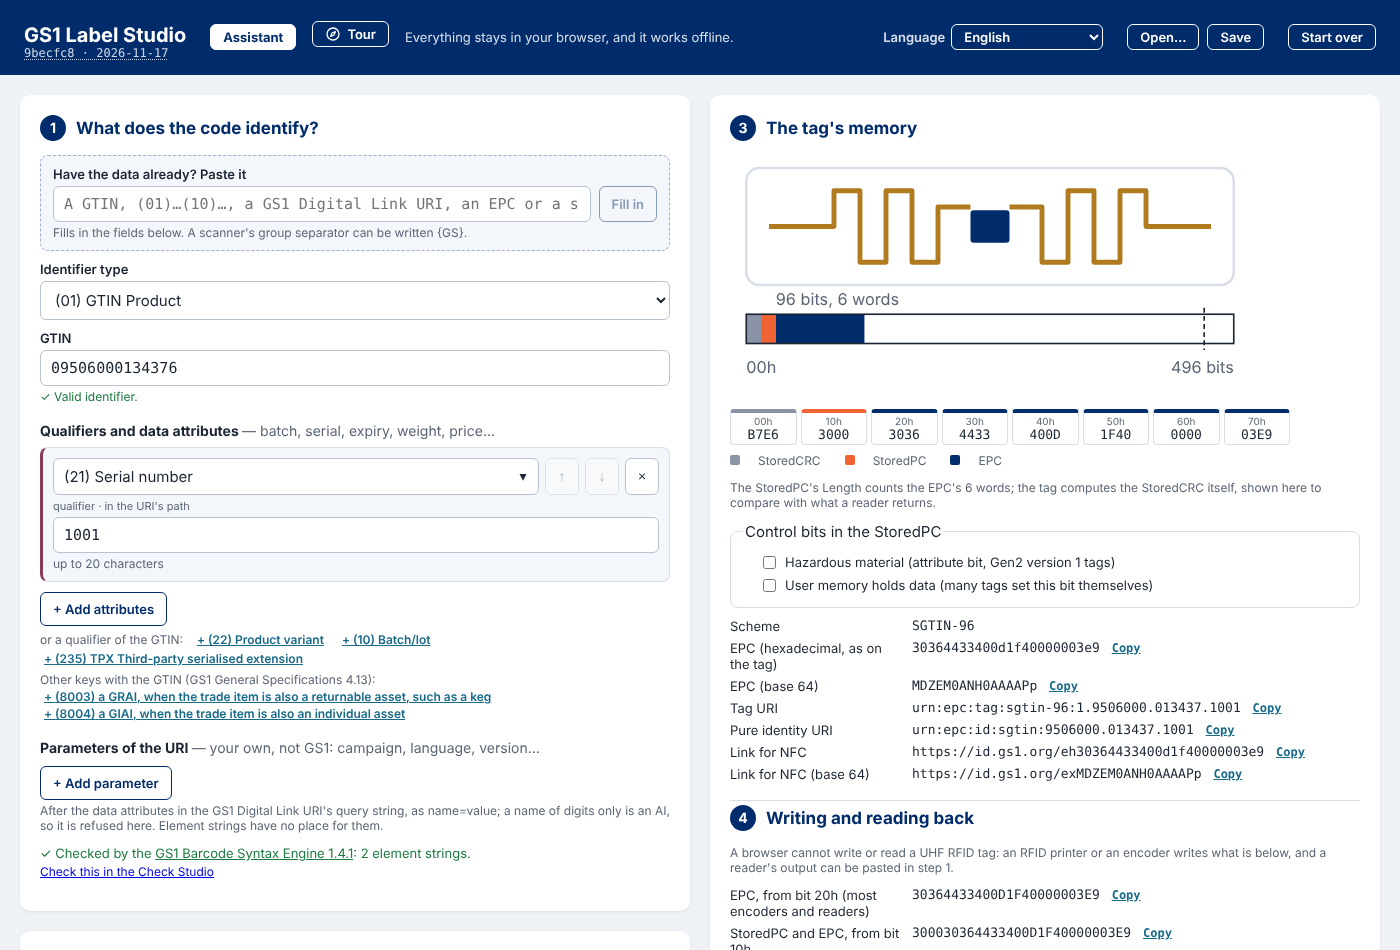
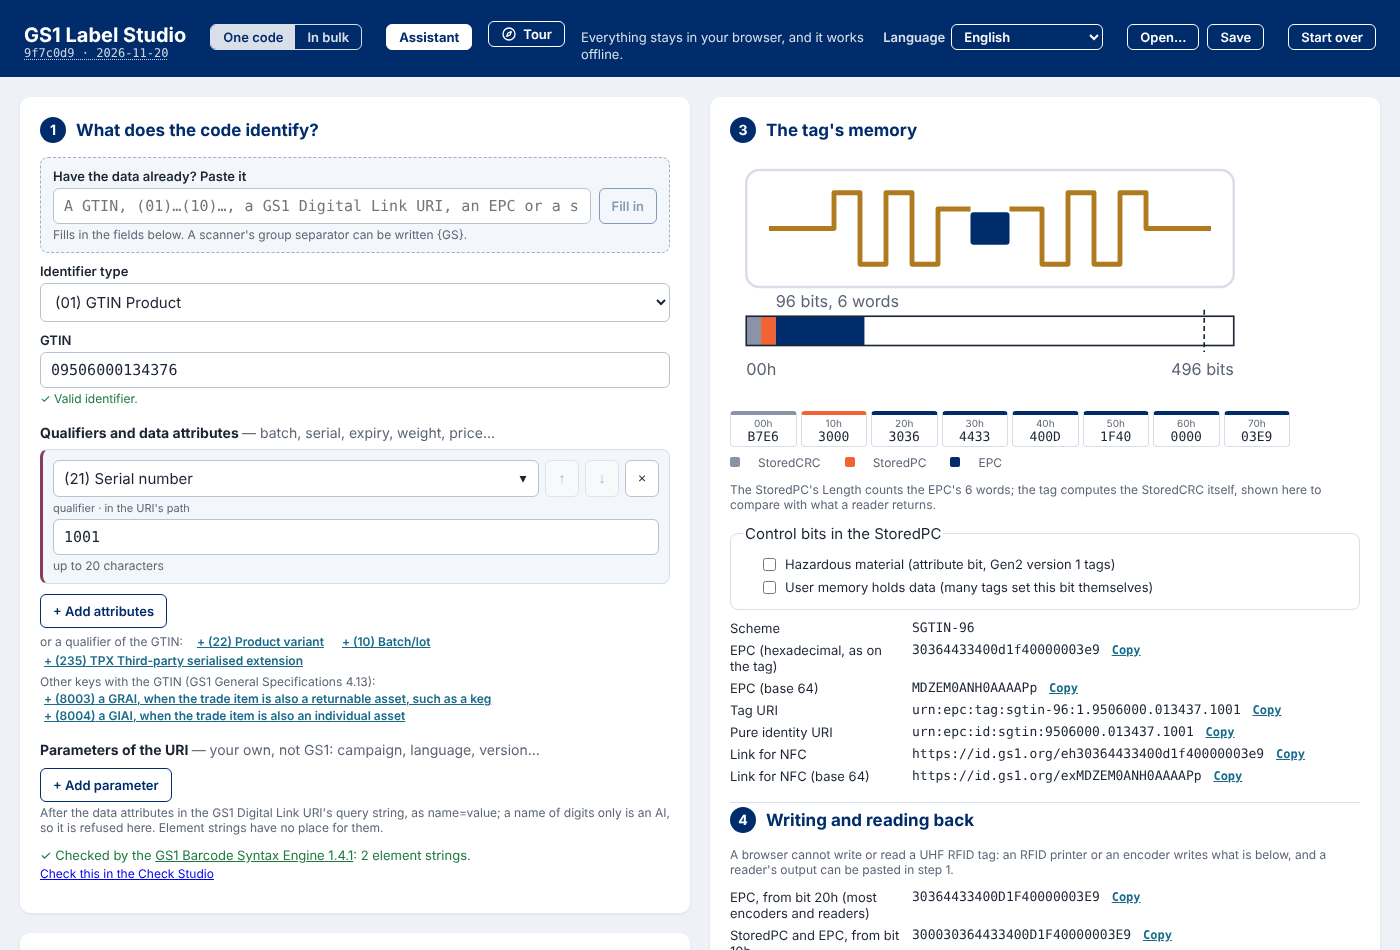
docs: many tags at once in ADR 0008, the guides, features and the backlog (6.12 d)
ADR 0008 records decision 6 (mock-up A of two, B set aside); the user guide
and the printing guide describe Many tags and its three files; the start
page's text no longer calls the RFID Studio coming soon; a screenshot of the
panel; the inventory after the new tests.

Claude-Session: https://claude.ai/code/session_01AV1oss5tP6KcvMZ3QYyCJ9

diff --git a/apps/web/screenshots/guide.spec.ts b/apps/web/screenshots/guide.spec.ts
@@ -318,6 +318,16 @@ test("the RFID Studio: the tag's memory and the RFID printer", async ({ page }) 
   await shot(page.locator(".rfid-write"), "rfid-write");
 });
 
+test("the RFID Studio in bulk: many tags at once", async ({ page }) => {
+  await page.goto("/#/rfid");
+  await page.getByRole("button", { name: "In bulk" }).click();
+  await page.fill("#rows-paste", "GTIN\tSerial\n" + Array.from({ length: 12 }, (_, i) => `09506000134376\t${1000 + i}`).join("\n") + "\n09506000134376\t\n");
+  await page.getByRole("button", { name: "Use the pasted rows" }).click();
+  await page.selectOption("#rfid-prefix", "7");
+  await expect(page.locator(".rfid-many tbody tr")).toHaveCount(4);
+  await shot(page.locator(".rfid-many"), "rfid-many");
+});
+
 test("in bulk", async ({ page }) => {
   await page.getByRole("button", { name: "In bulk" }).click();
   await shot(page.locator("section[aria-labelledby='rows-title']"), "bulk-start");

diff --git a/docs/test-inventory.md b/docs/test-inventory.md
@@ -1,6 +1,6 @@
 # Inventory of features from the tests
 
-Every test of the core's suite, of the web application's unit tests and of the editor's browser tests on 2026-11-20: 2,830 tests in 84 files. Each line is a test's name, a sentence that says what is true when it passes; together they say what the studio does and that it works. Each feature of [features.md](features.md) names the tests that prove it. Generated by `node scripts/inventory.mjs` from a complete run of the core's tests and the list of the browser tests ([ADR 0005](adr/0005-documentation-and-feature-inventory.md)); do not edit by hand.
+Every test of the core's suite, of the web application's unit tests and of the editor's browser tests on 2026-11-20: 2,834 tests in 84 files. Each line is a test's name, a sentence that says what is true when it passes; together they say what the studio does and that it works. Each feature of [features.md](features.md) names the tests that prove it. Generated by `node scripts/inventory.mjs` from a complete run of the core's tests and the list of the browser tests ([ADR 0005](adr/0005-documentation-and-feature-inventory.md)); do not edit by hand.
 
 Every unit test ran and passed in the run that wrote this file, the ZPL printed by Labelary included (`LABELARY=1`), but the documents' own test (`docs`), which checks this file and runs right after it is written. The browser tests are listed by Playwright and run by CI against the built application, on a desktop, a phone and a tablet held horizontally (a test about one layout is skipped in the others).
 
@@ -10,14 +10,14 @@ Every unit test ran and passed in the run that wrote this file, the ZPL printed 
 | [Where it is scanned: the assistant, the guided choice and the symbol specification tables](#where-it-is-scanned-the-assistant-the-guided-choice-and-the-symbol-specification-tables) | `assistant`, `environments`, `guide`, `specifications` | 223 |
 | [Symbols and the label's layout](#symbols-and-the-labels-layout) | `bars`, `design`, `designSymbol`, `gs1128`, `guides`, `hriFormat`, `hriplace`, `imagefile`, `labelsvg`, `layout`, `logistic`, `picture`, `place`, `pyformat`, `qrmode`, `resize`, `said`, `templates` | 234 |
 | [Exports and prepress: SVG, PNG, PDF, EPS, zip](#exports-and-prepress-svg-png-pdf-eps-zip) | `prepress`, `render`, `roundtrip` | 60 |
-| [In bulk: rows, the report, sequences, generation](#in-bulk-rows-the-report-sequences-generation) | `batch`, `bulk`, `report`, `sequence`, `table` | 167 |
+| [In bulk: rows, the report, sequences, generation](#in-bulk-rows-the-report-sequences-generation) | `batch`, `bulk`, `report`, `sequence`, `table` | 168 |
 | [Printers: the dot grid, profiles, ZPL, TSPL, EPL2, DPL, PPLA and PPLB](#printers-the-dot-grid-profiles-zpl-tspl-epl2-dpl-ppla-and-pplb) | `argox`, `dots`, `labelary`, `printer`, `printlangs`, `zpl` | 258 |
-| [RFID, NFC and digital signatures](#rfid-nfc-and-digital-signatures) | `epc`, `epcPlus`, `ndef`, `rfid`, `sign`, `tagMemory` | 1,307 |
+| [RFID, NFC and digital signatures](#rfid-nfc-and-digital-signatures) | `epc`, `epcPlus`, `ndef`, `rfid`, `sign`, `tagMemory` | 1,309 |
 | [The Check Studio: a code read to be checked](#the-check-studio-a-code-read-to-be-checked) | `camera`, `check`, `check-group`, `check-studio`, `checkReport`, `engine-map`, `estimate`, `estimates`, `faults`, `group`, `history`, `reading`, `readings`, `reports`, `share`, `sharing`, `wedge` | 274 |
 | [The work saved on one's own computer and opened again](#the-work-saved-on-ones-own-computer-and-opened-again) | `lastwork`, `opened`, `work` | 9 |
 | [The interface's languages: English, Brazilian Portuguese, Spanish, French, German, Italian](#the-interfaces-languages-english-brazilian-portuguese-spanish-french-german-italian) | `i18n` | 15 |
 | [The documents](#the-documents) | `docs` | 7 |
-| [The editor in the browser (Playwright, desktop, phone and tablet)](#the-editor-in-the-browser-playwright-desktop-phone-and-tablet) | `routes`, `tour`, `check-camera`, `check-estimate`, `check-history`, `check-matrix`, `check-report`, `check-result`, `check-scan`, `check-share`, `editor`, `layouts`, `rfid-studio`, `studios` | 187 |
+| [The editor in the browser (Playwright, desktop, phone and tablet)](#the-editor-in-the-browser-playwright-desktop-phone-and-tablet) | `routes`, `tour`, `check-camera`, `check-estimate`, `check-history`, `check-matrix`, `check-report`, `check-result`, `check-scan`, `check-share`, `editor`, `layouts`, `rfid-studio`, `studios` | 188 |
 
 ## Input and identification: the Syntax Engine, keys, qualifiers, attributes
 
@@ -790,7 +790,7 @@ Every unit test ran and passed in the run that wrote this file, the ZPL printed 
 
 ## In bulk: rows, the report, sequences, generation
 
-<details><summary><code>batch</code> — 17 tests (<code>packages/core/test/batch.test.ts</code>)</summary>
+<details><summary><code>batch</code> — 18 tests (<code>packages/core/test/batch.test.ts</code>)</summary>
 
 - label sheets › describes each sheet offered within its page, its labels centred
 - label sheets › refuses a custom sheet whose labels overlap or leave the page, or whose numbers are not sizes
@@ -801,6 +801,7 @@ Every unit test ran and passed in the run that wrote this file, the ZPL printed 
 - file names › replaces a column's header by the row's cell, its case and surrounding spaces aside, and knows the headers
 - file names › offers each name a pattern may take with the row's value, leaving out the headers it would read as another name, and adds one after a separator
 - generating every row › makes each row's files, numbers repeated names, leaves out errors and skipped rows, and lists them all
+- generating every row › writes each row's RFID tag with its label in ZPL, and says another language leaves it out
 - generating every row › writes the print file in the printer's language: TSPL, each label its own SIZE and PRINT
 - generating every row › prints the human readable text chosen: every element string, the key's alone, or none
 - generating every row › carries the element strings in the rows' order in the symbol and its text, a URI's symbol in the URI's
@@ -2569,12 +2570,14 @@ Every unit test ran and passed in the run that wrote this file, the ZPL printed 
 
 </details>
 
-<details><summary><code>rfid</code> — 4 tests (<code>packages/core/test/rfid.test.ts</code>)</summary>
+<details><summary><code>rfid</code> — 6 tests (<code>packages/core/test/rfid.test.ts</code>)</summary>
 
 - ZPL's ^RF › writes the StoredPC and the EPC from block 1 of the EPC bank, the bytes counted
 - ZPL's ^RF › writes what decodes to the same EPC, classic and EPC+, whatever its length
 - ZPL's ^RF › joins every label of a file, after its ^XA, the label's own commands unchanged
 - ZPL's ^RF › prints the lines in text, a caret or tilde in them made a space
+- many tags › writes a CSV line a row, the EPC from bit 20h and 10h, a row with no tag given its reason
+- many tags › writes one ZPL file with a label a tag, in order, each read back to its row's EPC
 
 </details>
 
@@ -3276,11 +3279,12 @@ Every unit test ran and passed in the run that wrote this file, the ZPL printed 
 
 </details>
 
-<details><summary><code>rfid-studio</code> — 3 tests (<code>apps/web/e2e/rfid-studio.spec.ts</code>)</summary>
+<details><summary><code>rfid-studio</code> — 4 tests (<code>apps/web/e2e/rfid-studio.spec.ts</code>)</summary>
 
 - step 1's data, encoded, laid out in the tag's memory and written by an RFID printer
 - the editor's card and the RFID Studio share the scheme chosen
 - what a reader returned, pasted in step 4, compared with the tag meant
+- in bulk, every row's tag: a CSV for an encoder, ZPL a tag a label, and each row's label with its tag
 
 </details>
 

diff --git a/docs/developer-guide.md b/docs/developer-guide.md
@@ -299,7 +299,7 @@ that say what is true; together they are the [inventory of features](test-invent
 | `attributes` | data attributes and decimal families, against the resolver | 29 |
 | `assistant` | the assistant's scenarios reaching step 2's table and symbol, read back by ZXing; a need read by keywords | 38 |
 | `bars` | ITF-14, GS1-128 and GS1 DataBar laid out by their table, read back from SVG, PNG and PDF | 20 |
-| `batch` | label sheets, several-page PDF, file names, generating every row | 17 |
+| `batch` | label sheets, several-page PDF, file names, generating every row | 18 |
 | `bulk` | columns guessed from headers, cells normalised, rows checked | 119 |
 | `checkDigit` | the GS1 check digit | 5 |
 | `docs` | the documents in step with the code and the tests | 7 |
@@ -309,7 +309,7 @@ that say what is true; together they are the [inventory of features](test-invent
 | `epc` | EPC against the resolver and read back by epc-tds; the GCP length table | 165 |
 | `epcPlus` | the 24 '+' and '++' examples of TDS 2.3 E.3 encoded and decoded; the six encodings; hostnames; refusals | 1,108 |
 | `tagMemory` | the EPC memory bank of a Gen2 tag: the StoredCRC against Python's CRC-CCITT and Annex F's residue, the StoredPC's Length and control bits, the bank word by word, a bank read back whole or from the PC, and compared with the bank meant | 15 |
-| `rfid` | ZPL for an RFID printer: `^RS8` and `^RF` from bit 10h or 20h, the bytes counted, what is written read back to the same EPC, classic and EPC++; joined to every label of a file | 4 |
+| `rfid` | ZPL for an RFID printer: `^RS8` and `^RF` from bit 10h or 20h, the bytes counted, what is written read back to the same EPC, classic and EPC++; joined to every label of a file | 6 |
 | `gs1128` | GS1-128 over several symbols, in the label and in ZPL | 6 |
 | `guide` | the decision tree, the carriers, the recommendation, GS1-128's 48 characters | 38 |
 | `hriFormat` | the human readable text's format: AI, data titles, both, one's own; in the SVG and every printer language, still read | 14 |
@@ -376,7 +376,7 @@ that say what is true; together they are the [inventory of features](test-invent
 | `check-history` | the Check Studio's history in a browser: codes kept through a reload and opened again, typed text kept once it rests, search and filter; version 1 of the database upgraded keeping the GCP table, a session, Delete all read back; a reading of an older release marked; a browser that keeps nothing; History off remembered, an item with no barcode (Playwright, IndexedDB) | 5 |
 | `check-report` | the Check Studio's reports and files in a browser: one reading's report in two pages at most; readings.csv with one row per listed reading, filtered as the list is, and the session report counting the same; findings.csv; readings.json opened again after Delete all giving the same list, a file that is not one refused; an export with a serial number asking once; an item's report (Playwright, downloads) | 4 |
 | `check-estimate` | Size estimates in a browser: the margins at once, the X-dimension within its tolerance from one symbol's printed width typed with a comma, a grade named only in the sentence saying there is none, a wrong width refused; a size outside a shop's range a finding with its estimate and the table's grade (Playwright) | 2 |
-| `rfid-studio` | The RFID Studio in a browser: step 1's data encoded, the bank's words, the hazardous material bit changing the PC and its CRC, ZPL alone and joined to the label, from bit 20h; a reader's output compared; the editor's card sharing the scheme (Playwright) | 3 |
+| `rfid-studio` | The RFID Studio in a browser: step 1's data encoded, the bank's words, the hazardous material bit changing the PC and its CRC, ZPL alone and joined to the label, from bit 20h; a reader's output compared; the editor's card sharing the scheme (Playwright) | 4 |
 | `check-share` | Share in a browser: without a share sheet, the menu (WhatsApp with the text and the link, Copy the text, Download, Escape); with one, the PDF and the text together and the link opened in another browser giving the same verdict and faults; a link cut on its way refused; a serial asking once a visit; the editor's Share sending the PNG and a link that opens the same work (Playwright, fakes for the share sheet, the clipboard and window.open) | 5 |
 | `printlangs` | TSPL, EPL2 and DPL rendered by Labelize and read back; what they refuse | 130 |
 | `argox` | PPLA and PPLB as the DPL and EPL2 files Argox's manual allows, read back; what they refuse | 27 |

diff --git a/docs/features.md b/docs/features.md
@@ -252,6 +252,7 @@ Which standard each follows: [conformance](conformance.md).
 | The RFID Studio | Backlog 6.12 a, ADR 0008 (option A of the ideation round, mock-up A of two): `#/rfid`, a studio of its own offered by the start page and as a shortcut of the installed application; the editor's step 1, then 2 the encoding (classic, EPC+ or EPC++, the filter, the company prefix, a DSGTIN's date, +AIDC data), 3 the tag's memory, 4 writing and reading back; on a phone the tabs Data, Encoding, Tag and Write; the editor's EPC card shares the same choices and links to it | `03c8b1d` | `rfid-studio`: step 1's data, encoded · `rfid-studio`: the editor's card and the RFID Studio share · `studios`: the root offers the four studios · `studios`: the installed application offers |
 | The tag's EPC memory | Backlog 6.12 b: the EPC bank word by word as a Gen2 tag holds it: the StoredCRC (Gen2 Annex F's CRC-16, which the tag computes, shown to compare), the StoredPC whose Length counts the EPC's 16-bit words (TDS 2.3, table 9-3 and 15.1.1), the user memory indicator and the hazardous material attribute bit chosen, the EPC zero-filled to the word; the bank from bit 00h, 10h or 20h and the tag URI with its control fields; a bank read back whole or from the PC, the CRC checked | `3559df6`, `03c8b1d` | `tagMemory`: is Gen2's CRC-16 · `tagMemory`: leaves Annex F's residue · `tagMemory`: counts the EPC's words · `tagMemory`: lays out an SGTIN-96 · `tagMemory`: is read whole, from the PC · `tagMemory`: keeps the words after the EPC |
 | ZPL for an RFID printer | Backlog 6.12 c, ADR 0008 decision 3: `^RS8` and `^RFW,H,1,n,1` writing the StoredPC and the EPC from bit 10h (any Gen2 printer), or `^RFW,H,,,A` from bit 20h with the printer setting the PC (Zebra ZD500R, ZT400, ZT600); a label of its own with the EPC in text, or the commands joined to every label of the Label Studio's ZPL; Labelary's linter finds no fault in them, and what they write reads back to the same EPC | `3559df6`, `03c8b1d` | `rfid`: writes the StoredPC and the EPC from block 1 · `rfid`: writes what decodes to the same EPC · `rfid`: joins every label of a file · `labelary`: takes the tag's commands · `rfid-studio`: step 1's data, encoded |
+| Many tags at once | Backlog 6.12 d, ADR 0008 decision 6 (mock-up A of two): *In bulk* in the RFID Studio, each row of step 1 a tag with the same choices; in step 4, *Many tags*: the tags ready and the rows left out, a CSV for an encoder (each row's EPC from bit 20h, StoredPC and EPC from bit 10h, length, pure identity and tag URIs, the reason in English for a row with none), one ZPL file with a label a tag, and every row's Label Studio label in ZPL with its own tag written after its `^XA` (the bulk generator); on a phone the RFID Studio's More tab holds the language and the work's buttons | `afbec61`, `f9c2d08` | `rfid`: writes a CSV line a row · `rfid`: writes one ZPL file with a label a tag · `rfid`: joins every label of a file · `batch`: writes each row's RFID tag with its label · `labelary`: takes the tag's commands · `rfid-studio`: in bulk, every row's tag |
 | Reading a tag back | Backlog 6.12 e: in step 4, what a reader returned pasted (the EPC alone, or the bank from bit 10h or 00h) and compared with the tag meant: the same, or each difference named (the EPC, the PC's Length, its attribute bits or toggle, a StoredCRC that does not match) with what to do; the user memory and XPC indicators, which a tag may compute, not compared | `ea7c055`, `cbe179e` | `tagMemory`: takes the EPC alone, from the PC or the whole bank · `tagMemory`: names what differs · `rfid-studio`: what a reader returned |
 
 ## Digital signatures and verifiable credentials

diff --git a/docs/user-guide.md b/docs/user-guide.md
@@ -62,12 +62,12 @@ English.
 
 ### The start page: the studios
 
-![The start page: the Label Studio, the Barcode Studio and the Check Studio, the RFID Studio coming soon](images/guide/start.png)
+![The start page: the Label Studio, the Barcode Studio, the Check Studio and the RFID Studio](images/guide/start.png)
 
 The address of the tool opens on its studios. **Label Studio** opens the editor below with the kinds of label shown;
 **Barcode Studio** opens the same editor with the barcode alone; **Check Studio** checks a code you already have (see
-below). The **RFID Studio** is marked *Coming soon*. Each studio has its own address, to bookmark or to open from the
-installed application's shortcuts: `#/label`, `#/barcode`, `#/check`. The name in the header always leads back to the
+below); **RFID Studio** gives an RFID tag its own steps (see [the RFID Studio](#the-rfid-studio-the-tags-memory-and-writing-it)). Each studio has its own address, to bookmark or to open from the
+installed application's shortcuts: `#/label`, `#/barcode`, `#/check`, `#/rfid`. The name in the header always leads back to the
 studios; the browser's Back and Forward move between them, and what you typed in the editor is kept while you look at
 another studio.
 
@@ -876,6 +876,24 @@ is the editor's: what is typed in one studio is there in the other, and so are t
   what to do: another EPC, a Length that does not count the EPC's words (write from bit 10h), the attribute bits, the
   toggle, a CRC that does not match (read again).
 - **NFC tag**, as in the card above.
+
+#### Many tags at once
+
+**In bulk** in the header works in the RFID Studio too: step 1 takes a spreadsheet, pasted rows or a serial sequence
+(as in [bulk](#13-in-bulk-rows-from-a-spreadsheet)), and steps 2 to 4 show the row chosen. Every row gets its tag with the same scheme,
+filter and control bits. Step 4 then shows **Many tags**, above the RFID printer: how many tags are ready, one a row,
+how many rows are left out (an error, skipped, or data with no EPC, such as a GTIN with no serial number), and the first
+EPCs.
+
+![Step 4 in bulk: many tags at once](images/guide/rfid-many.png)
+
+- **For an encoder (.csv)**: a line a row of the spreadsheet, in its order: *Row*, *EPC* (from bit 20h), *PC and EPC*
+  (from bit 10h), *EPC bits*, *Pure identity*, *Tag URI*, and the *Reason* a row has no tag (in English, as the files
+  made are). Most encoders and RFID printers' software import a column of EPCs in hexadecimal.
+- **Each tag with its EPC in text (.zpl)**: one ZPL file, a label a tag, each printing its EPC and identity while it
+  writes it, from bit 10h or 20h as the RFID printer's choice below says.
+- **Each tag with the Label Studio's label (.zip)**: every row's label as the Label Studio designs it, in one ZPL file
+  with its own tag written in the same pass, and `generated.csv` naming the rows left out and why.
 
 ## 12. Digital signature (GS1, JWS)
 

diff --git a/README.md b/README.md
@@ -833,8 +833,11 @@ now. 6.10 (the assistant, 13 November) before 6.4 and 6.5, which follow from it.
   indicator and hazardous material bit, the bank word by word from 00h, 10h or 20h, a bank read back); c, writing —
   done the same day (`rfidZpl.ts`: `^RS8` and `^RFW,H,1,n,1` from bit 10h on any Gen2 printer, or `^RFW,H,,,A` on
   the ZD500R, ZT400 and ZT600; a label of its own or the Label Studio's label with its tag; Labelary's linter and the
-  EPC read back in the tests); d, many tags at once (a serial sequence as a file an encoder takes, and ZPL with a tag
-  per label); e, reading back — done 20 November (`compareReadBack()`: what a reader returned, the EPC alone or the
+  EPC read back in the tests); d, many tags at once — done 20 November (mock-up A of two: *Many tags* in step 4 above
+  the RFID printer; B, a step 5 of its own): *In bulk* in the studio, each row of step 1 a tag; a CSV an encoder takes
+  (`encoderCsv`: the EPC from bit 20h, the StoredPC and EPC from bit 10h, the URIs, a row with no tag kept with its
+  reason), one ZPL file with a label a tag (`zplRfidLabels`), and every row's Label Studio label with its tag in ZPL (the
+  bulk generator's `BatchRow.rfid`); e, reading back — done 20 November (`compareReadBack()`: what a reader returned, the EPC alone or the
   bank from bit 10h or 00h, compared with the tag meant, each difference named with what to do); f, the documents and
   the test plan after d*
 - 6.13 More pictograms (the owner, 15 November 2026): **+ Pictogram** with an arrow beside it to choose among

diff --git a/docs/adr/0008-rfid-studio.md b/docs/adr/0008-rfid-studio.md
@@ -53,6 +53,14 @@ A: step 4's *read back* takes any of the forms C would, and step 1 accepts anyth
 5. **Items** (backlog 6.12 a to f): a, the studio's screen with steps 1 and 2 (mock-ups first); b, the tag's memory
    (step 3); c, writing (step 4: encoder, ZPL, NFC); d, many tags at once; e, reading back; f, the documents, the
    inventory and the test plan.
+6. **Many tags at once** (item d; mock-up A of two, as Playwright screenshots of the application in Portuguese): the
+   editor's *In bulk* mode in the studio too, step 1's rows (a spreadsheet, pasted rows or a serial sequence) each a
+   tag with step 2's and step 3's choices, and in step 4, above the RFID printer, a *Many tags* panel: a CSV an encoder
+   takes (`encoderCsv`: each row's EPC from bit 20h, its StoredPC and EPC from bit 10h, its length and URIs, a row with
+   no tag kept with its reason in English), one ZPL file with a label a tag (`zplRfidLabels`), and each row's label of
+   the Label Studio with its tag (the bulk generator, `BatchRow.rfid` written after each label's `^XA`, in ZPL only).
+   B, a step 5 of its own under step 2, put the run far from the printer's choice of bit 10h or 20h, which both use, and
+   was set aside.
 
 ## 4. Consequences
 

diff --git a/docs/printing-guide.md b/docs/printing-guide.md
@@ -107,6 +107,10 @@ gives the ZPL:
   `^RF`) says only the ZD500R and the ZT400 and ZT600 series take it.
 - **The tag and its EPC in text** is a label of its own; **The tag with the Label Studio's label** puts the commands
   after each `^XA` of the label's ZPL, its printing unchanged.
+- In bulk, **Many tags** writes the same for every row: one ZPL file with a label a tag, or every row's label from the
+  Label Studio with its own tag (in the zip, with `generated.csv`); and a CSV for an encoder with each row's EPC from
+  bit 20h and its StoredPC and EPC from bit 10h. The labels with their tags are written in ZPL whatever the printer's
+  profile says; another language would print the labels without the tags.
 
 Labelary prints the label but does not write tags: its linter finds no fault in these commands (a test checks this),
 and the tests read what `^RF` writes back to the same EPC. Lock and passwords are not written: a wrong one makes a tag
